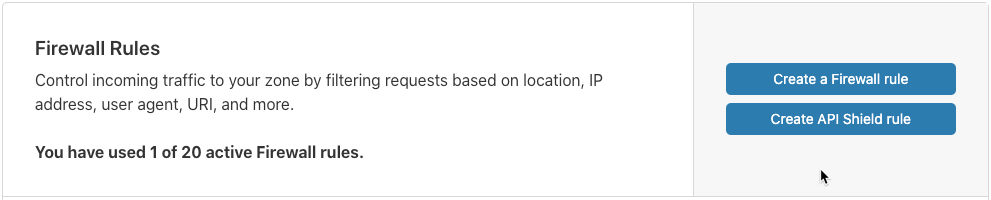
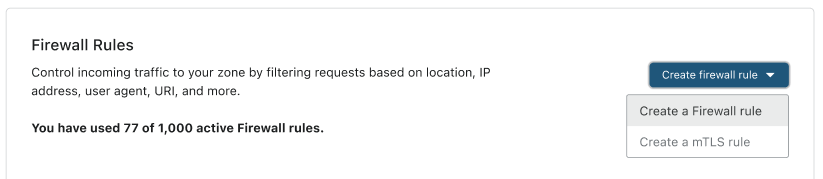
Update 'Create API Shield' topic to 'Create a mTLS rule'

diff --git a/products/firewall/src/content/cf-dashboard/create-mtls-rule.md b/products/firewall/src/content/cf-dashboard/create-mtls-rule.md
@@ -2,32 +2,30 @@
 order: 380
 ---
 
-# Create an API Shield™ rule
+# Create a mTLS rule
 
-Use the [API Shield](/cf-firewall-rules/api-shield) interface in the Cloudflare dashboard to create a firewall rule that requires requests to your API or web application to present a valid client certificate.
+Use the [Mutual TLS](/cf-firewall-rules/api-shield#mutual-tls-mtls) Rule interface in the Cloudflare dashboard to create a mTLS rule that requires requests to your API or web application to present a valid client certificate.
 
-Before you can create an API Shield rule, you must do the following:
+Before you can create a mTLS rule, you must do the following:
 
 - [Enable mutual Transport Layer Security (mTLS) for a host](https://developers.cloudflare.com/ssl/client-certificates/enable-mtls) in your zone.
 - [Create a client certificate](https://developers.cloudflare.com/ssl/client-certificates/create-a-client-certificate).
 
 <Aside type='warning' header='Important'>
 
-You can only use API Shield with a certificate authority (CA) that is fully managed by Cloudflare. Cloudflare generates a unique CA for each zone.
+You can only use mTLS with a certificate authority (CA) that is fully managed by Cloudflare. Cloudflare generates a unique CA for each zone.
 
-If you need to use a different CA, contact a Cloudflare customer success manager.
+If you need to use a different CA, contact a Cloudflare Customer Success Manager.
 
 </Aside>
 
-After you have created your API Shield rule, [configure your mobile app or IoT device](https://developers.cloudflare.com/ssl/client-certificates/configure-your-mobile-app-or-iot-device) to use your Cloudflare-issued client certificate.
+After you have created your mTLS  rule, [configure your mobile app or IoT device](https://developers.cloudflare.com/ssl/client-certificates/configure-your-mobile-app-or-iot-device) to use your Cloudflare-issued client certificate.
 
-## Use the API Shield Rule interface
+## Use the Mutual TLS Rule interface
 
-To create an API Shield rule in the Cloudflare dashboard, follow these steps:
+To create a mTLS rule in the Cloudflare dashboard, follow these steps:
 
-1. Log in to your Cloudflare account Home page and click the zone containing the host you want to protect with API Shield.
-
-    The Cloudflare dashboard displays.
+1. Log in to your Cloudflare account Home page and click the zone containing the host you want to protect with mTLS.
 
 1. Click the **Firewall** app.
 
@@ -41,38 +39,56 @@ To create an API Shield rule in the Cloudflare dashboard, follow these steps:
 
     ![Firewall Rules card](../images/firewall-rules-card.png)
 
-1. Click **Create API Shield rule**.
+1. Click **Create firewall rule** > **Create a mTLS rule**.
 
-    The **API Shield Rule** dialog displays.
+    The **Mutual TLS Rule** dialog displays.
 
-    ![Firewall Rules API Shield page](../images/firewall-rules-api-shield-page.png)
+    ![Firewall Rules Mutual TLS page](../images/firewall-rules-mutual-tls-page.png)
 
-1. Enter a descriptive identifier for your API Shield rule in the **Rule name** input.
+1. Enter a descriptive identifier for your mTLS rule in the **Rule name** input.
 
-1. To select the hosts you want protect with you API Shield rule, use the **Hostname** input. By default, all available hosts are listed. Only hosts in the zone you selected in Step 1 and for which you [enable mTLS](https://developers.cloudflare.com/ssl/client-certificates/enable-mtls) are available. To remove a host from the rule, click the associated **X** icon.
-
-    ![API Shield hostname input](../images/firewall-rules-api-shield-hosts.png)
+1. Enter the hosts you want to protect with your mTLS rule in the **API hosts** input. By default, all available hosts are listed. Only hosts in the zone you selected in Step 1 and for which you [enable mTLS](https://developers.cloudflare.com/ssl/client-certificates/enable-mtls) are available. To remove a host from the rule, click the associated **X** icon.
 
 1. To create your rule and make it active, click **Deploy**.
 
-    The **API Shield Rule** dialog closes and the **Firewall Rules** card displays with your new rule in the list.
+The **Mutual TLS Rule** dialog closes and the **Firewall Rules** card displays with your new rule in the list.
 
-    ![Firewall Rules list with API Shield example](../images/firewall-rules-list-example-api-shield-rule.png)
-
-Once you have deployed your API Shield rule, [configure your mobile app or IoT device](https://developers.cloudflare.com/ssl/client-certificates/configure-your-mobile-app-or-iot-device) to use your Cloudflare-issued client certificate.
+Once you have deployed your mTLS rule, [configure your mobile app or IoT device](https://developers.cloudflare.com/ssl/client-certificates/configure-your-mobile-app-or-iot-device) to use your Cloudflare-issued client certificate.
 
 ## Review your rule in the Expression Builder
 
-To review your API Shield rule in the Firewall Rules Expression Builder, click the wrench icon associated with your rule.
+To review your mTLS rule in the Firewall Rules Expression Builder, click the wrench icon associated with your rule.
 
-The **Edit Firewall Rule** dialog displays, and the Expression Builder's visual interface renders your API Shield rule:
+The **Edit Firewall Rule** dialog displays, and the Expression Builder's visual interface renders your mTLS rule:
 
-![Edit Firewall Rule dialog with example API Shield rule](../images/firewall-rules-edit-firewall-rule-api-shield.png)
+![Edit Firewall Rule dialog with example mTLS rule](../images/firewall-rules-edit-firewall-rule-api-shield.png)
 
-Note **Expression Preview**. Your API Shield rule includes a [compound expression](/cf-firewall-rules/fields-and-expressions/#compound-expressions) formed from two [simple expressions](/cf-firewall-rules/fields-and-expressions/#simple-expressions) joined by the `and` operator.
+Note **Expression Preview**. Your mTLS rule includes a [compound expression](/cf-firewall-rules/fields-and-expressions/#compound-expressions) formed from two [simple expressions](/cf-firewall-rules/fields-and-expressions/#simple-expressions) joined by the `and` operator.
 
-The first expression uses the `http.host` field, combined with the `in` operator, to capture the hosts your API Shield rule applies to.
+The first expression uses the `http.host` field, combined with the `in` operator, to capture the hosts your mTLS rule applies to.
 
-The second expression—`not cf.tls_client_auth.cert_verified`—returns `true` when a request to access your API or web application does _not_ present a valid client certificate.
+The second expression — `not cf.tls_client_auth.cert_verified` — returns `true` when a request to access your API or web application does _not_ present a valid client certificate.
 
 Because the [action](/cf-firewall-rules/actions) for your rule is _Block_, only requests that present a valid client certificate can access the specified hosts.
+
+### Check for revoked certificates
+
+Since you can [revoke client certificates](https://developers.cloudflare.com/ssl/client-certificates/revoke-client-certificate), you can add a mTLS rule that checks if the certificate included in the request has been revoked.
+
+When a request includes a revoked certificate, the `cf.tls_client_auth.cert_revoked` field is set to `true`. You can create a rule using this field to block requests that include a revoked certificate.
+
+To create such a rule using the Expression Builder, add a clause to the rule filter that checks for a revoked certificate:
+
+- **Field**: _Client Certificate_
+- **Operator**: _Is Revoked_
+- **Value**: _On_
+
+`SCREENSHOT PLACEHOLDER`
+
+You can use a single mTLS rule to block requests that do not include a valid client certificate or that include a revoked certificate. To define such a rule you must use the Expression Editor. 
+
+For example, you could define a rule expression similar to the following:
+
+```sql
+http.host == "example.com" and (not cf.tls_client_auth.cert_verified or cf.tls_client_auth.cert_revoked)
+```
